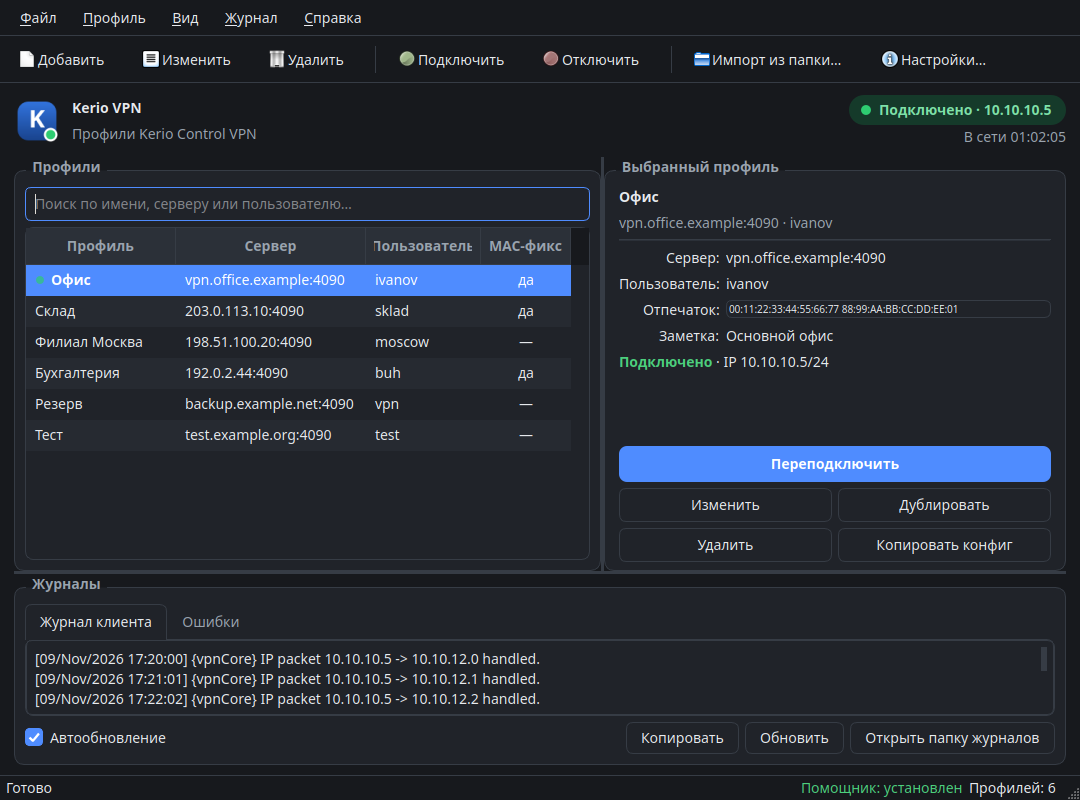
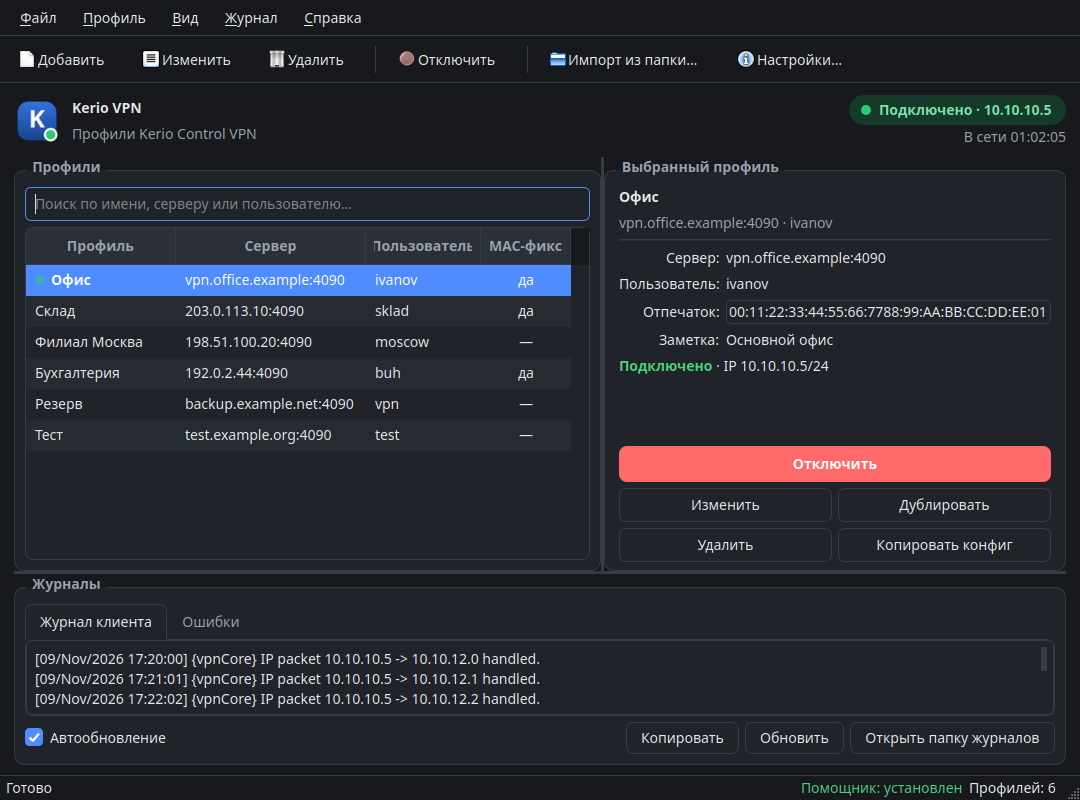
Единый шрифт отпечатка и одна кнопка Подключить/Отключить (1.2.6)

diff --git a/kerio_vpn_gui/ui.py b/kerio_vpn_gui/ui.py
@@ -226,7 +226,7 @@ class ProfileDialog(QDialog):
             title = "Изменить профиль"
         self.setWindowTitle(title)
         self.setWindowIcon(make_app_icon())
-        self.setMinimumWidth(640)
+        self.setMinimumWidth(720)
 
         layout = QVBoxLayout(self)
         layout.setSpacing(12)
@@ -276,10 +276,9 @@ class ProfileDialog(QDialog):
         fingerprint_layout.setSpacing(8)
         self.fingerprint_edit = QLineEdit(self)
         self.fingerprint_edit.setPlaceholderText("AA:BB:CC:…:FF")
-        font = QFontDatabase.systemFont(QFontDatabase.FixedFont)
-        font.setPointSize(8)
-        self.fingerprint_edit.setFont(font)
-        self.fingerprint_edit.setStyleSheet("QLineEdit { font-size: 9px; }")
+        self.fingerprint_edit.setFont(
+            QFontDatabase.systemFont(QFontDatabase.FixedFont)
+        )
         if profile:
             self.fingerprint_edit.setText(profile.fingerprint)
             self.fingerprint_edit.setCursorPosition(0)
@@ -351,6 +350,7 @@ class ProfileDialog(QDialog):
 
     def _update_warning(self) -> None:
         value = self.fingerprint_edit.text().strip()
+        self.fingerprint_edit.setToolTip(value)
         if not value:
             self.warning_label.setText(
                 "Отпечаток не указан. Нажмите «Получить с сервера», иначе "
@@ -1005,6 +1005,12 @@ class MainWindow(QMainWindow):
         self.act_disconnect.setShortcut(QKeySequence("Ctrl+D"))
         self.act_disconnect.triggered.connect(self._disconnect)
 
+        self.act_toggle = QAction(
+            self.act_connect.icon(), "Подключить", self
+        )
+        self.act_toggle.setToolTip("Подключить выбранный профиль")
+        self.act_toggle.triggered.connect(self._toggle_connection)
+
         self.act_restart = QAction(
             self._theme_icon(("view-refresh", "reload"), QStyle.SP_BrowserReload),
             "Перезапустить службу",
@@ -1092,6 +1098,7 @@ class MainWindow(QMainWindow):
             self.act_delete,
             self.act_connect,
             self.act_disconnect,
+            self.act_toggle,
             self.act_restart,
             self.act_import,
             self.act_import_file,
@@ -1213,11 +1220,11 @@ class MainWindow(QMainWindow):
         self.detail_fingerprint = QLineEdit(details_box)
         self.detail_fingerprint.setReadOnly(True)
         self.detail_fingerprint.setFrame(False)
-        fingerprint_font = QFontDatabase.systemFont(QFontDatabase.FixedFont)
-        fingerprint_font.setPointSize(8)
-        self.detail_fingerprint.setFont(fingerprint_font)
+        self.detail_fingerprint.setFont(
+            QFontDatabase.systemFont(QFontDatabase.FixedFont)
+        )
         self.detail_fingerprint.setStyleSheet(
-            "QLineEdit { background: transparent; padding: 0; font-size: 10px; }"
+            "QLineEdit { background: transparent; padding: 0; }"
         )
         self.detail_fingerprint.setToolTip("Отпечаток сертификата")
         self.detail_notes = self._value_label(details_box)
@@ -1239,7 +1246,7 @@ class MainWindow(QMainWindow):
         self.connect_button = QPushButton("Подключить", details_box)
         self.connect_button.setObjectName("connectButton")
         self.connect_button.setMinimumHeight(34)
-        self.connect_button.clicked.connect(self._connect_selected)
+        self.connect_button.clicked.connect(self._primary_action)
         buttons_grid.addWidget(self.connect_button, 0, 0, 1, 2)
 
         self.edit_button = QPushButton("Изменить", details_box)
@@ -1324,7 +1331,7 @@ class MainWindow(QMainWindow):
         return fingerprint
 
     def _set_fingerprint_label(self, text: str) -> None:
-        flat = text.replace("\n", " ")
+        flat = text.replace("\n", "")
         self.detail_fingerprint.setText(flat)
         self.detail_fingerprint.setCursorPosition(0)
         self.detail_fingerprint.setToolTip(flat)
@@ -1379,8 +1386,7 @@ class MainWindow(QMainWindow):
             self.act_edit,
             self.act_delete,
             None,
-            self.act_connect,
-            self.act_disconnect,
+            self.act_toggle,
             None,
             self.act_import,
             self.act_settings,
@@ -1582,11 +1588,14 @@ class MainWindow(QMainWindow):
             self._set_fingerprint_label("—")
             self.detail_notes.setText("—")
             self.detail_state.setText("")
+            self.connect_button.setText("Подключить")
+            self._set_connect_button_danger(False)
             self.connect_button.setEnabled(False)
             self.edit_button.setEnabled(False)
             self.duplicate_button.setEnabled(False)
             self.delete_button.setEnabled(False)
             self.copy_button.setEnabled(False)
+            self._update_toggle_action()
             return
 
         self.detail_name.setText(profile.name)
@@ -1601,25 +1610,35 @@ class MainWindow(QMainWindow):
         self.detail_notes.setText(profile.notes or "—")
         self.detail_notes.setToolTip(profile.notes or "")
 
-        if self._active_profile_id == profile.id and self._connected and self._tunnel:
-            colors = self.theme_manager.colors
+        colors = self.theme_manager.colors
+        active_here = self._active_profile_id == profile.id
+        if active_here and self._connected and self._tunnel:
             self.detail_state.setText(
                 f"<span style='color:{colors.success}; font-weight:600;'>Подключено</span>"
                 f" · IP {self._tunnel.address}"
             )
-            self.connect_button.setText("Переподключить")
+        elif active_here and self._running:
+            self.detail_state.setText(
+                f"<span style='color:{colors.warning};'>Служба запущена, туннель не поднят</span>"
+            )
         elif self._running:
-            colors = self.theme_manager.colors
             self.detail_state.setText(
                 f"<span style='color:{colors.warning};'>Активно другое подключение</span>"
             )
-            self.connect_button.setText("Переключиться")
         else:
-            colors = self.theme_manager.colors
             self.detail_state.setText(
                 f"<span style='color:{colors.muted};'>Не подключено</span>"
             )
+
+        if self._running and active_here:
+            self.connect_button.setText("Отключить")
+            self._set_connect_button_danger(True)
+        elif self._running:
+            self.connect_button.setText("Переключиться")
+            self._set_connect_button_danger(False)
+        else:
             self.connect_button.setText("Подключить")
+            self._set_connect_button_danger(False)
 
         self.connect_button.setEnabled(not self._busy)
         for button in (
@@ -1629,6 +1648,26 @@ class MainWindow(QMainWindow):
             self.copy_button,
         ):
             button.setEnabled(not self._busy)
+        self._update_toggle_action()
+
+    def _set_connect_button_danger(self, danger: bool) -> None:
+        if bool(self.connect_button.property("danger")) == danger:
+            return
+        self.connect_button.setProperty("danger", danger)
+        self.connect_button.style().unpolish(self.connect_button)
+        self.connect_button.style().polish(self.connect_button)
+
+    def _update_toggle_action(self) -> None:
+        running = self._running
+        profile = self._selected_profile()
+        self.act_toggle.setText("Отключить" if running else "Подключить")
+        self.act_toggle.setIcon(
+            self.act_disconnect.icon() if running else self.act_connect.icon()
+        )
+        self.act_toggle.setEnabled(not self._busy and (running or profile is not None))
+        self.act_toggle.setToolTip(
+            "Отключить VPN" if running else "Подключить выбранный профиль"
+        )
 
     # -- статус ------------------------------------------------------------
     def _refresh_status(self, initial: bool = False) -> None:
@@ -1848,6 +1887,27 @@ class MainWindow(QMainWindow):
     def _connect_selected(self) -> None:
         profile = self._selected_profile()
         if profile is not None:
+            self._connect_profile(profile)
+
+    def _toggle_connection(self) -> None:
+        if self._busy:
+            return
+        if self._running:
+            self._disconnect()
+        else:
+            self._connect_selected()
+
+    def _primary_action(self) -> None:
+        if self._busy:
+            return
+        profile = self._selected_profile()
+        if profile is None:
+            if self._running:
+                self._disconnect()
+            return
+        if self._running and self._active_profile_id == profile.id:
+            self._disconnect()
+        else:
             self._connect_profile(profile)
 
     def _connect_profile_id(self, profile_id: str) -> None:

diff --git a/kerio_vpn_gui/theme.py b/kerio_vpn_gui/theme.py
@@ -318,7 +318,14 @@ def _stylesheet(c: ThemeColors, font_size: int = 14) -> str:
     }}
     QPushButton#connectButton:hover {{ background: {c.accent_hover}; }}
     QPushButton#connectButton:pressed {{ background: {c.accent_pressed}; }}
+    QPushButton#connectButton[danger="true"] {{ background: {c.danger}; }}
+    QPushButton#connectButton[danger="true"]:hover {{ background: {c.danger}; }}
+    QPushButton#connectButton[danger="true"]:pressed {{ background: {c.danger}; }}
     QPushButton#connectButton:disabled {{
+        background: {c.border};
+        color: {c.muted};
+    }}
+    QPushButton#connectButton[danger="true"]:disabled {{
         background: {c.border};
         color: {c.muted};
     }}

diff --git a/kerio_vpn_gui/core.py b/kerio_vpn_gui/core.py
@@ -20,7 +20,7 @@ from typing import Any, Iterable, Optional
 
 APP_ID = "kerio-vpn-gui"
 APP_NAME = "Kerio VPN"
-APP_VERSION = "1.2.4"
+APP_VERSION = "1.2.6"
 # Нейтральный каталог по умолчанию. Реальный путь пользователь выбирает
 # в диалоге импорта; после первого импорта он сохраняется в настройках.
 DEFAULT_IMPORT_DIR = str(Path.home() / "kerio")

diff --git a/README.md b/README.md
@@ -15,6 +15,7 @@
 - Получение MD5-отпечатка сертификата с сервера прямо из диалога профиля.
 - Опция «Исправлять MAC-адрес kvnet» для серверов, где использовался старый трюк с `ip link set kvnet addr …`.
 - Подключение/отключение и перезапуск службы без терминала — через `pkexec` и polkit.
+- Единая кнопка **Подключить/Отключить** в панели инструментов и в карточке профиля.
 - Индикатор состояния, IP-адрес и MAC туннеля, время соединения.
 - Журнал клиента и журнал ошибок с автообновлением.
 - Иконка в системном трее с быстрым подключением к любому профилю.
